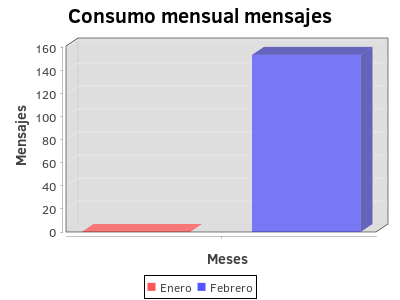
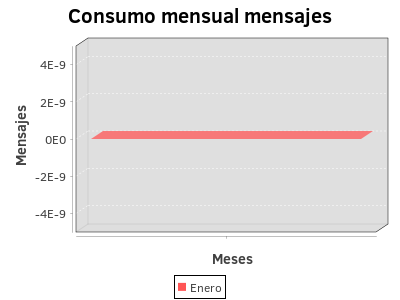
Coreccion interfaz cliente

Changed region(s): [[0.24, 0.15, 0.93, 0.78], [0.09, 0.12, 0.51, 0.81], [0.36, 0.84, 0.66, 1.0]]

diff --git a/vistas/cliente/Cliente/src/functionalities/CreateGraphic.java b/vistas/cliente/Cliente/src/functionalities/CreateGraphic.java
@@ -8,70 +8,31 @@ import org.jfree.chart.axis.CategoryAxis;
 import org.jfree.chart.axis.CategoryLabelPositions;
 import org.jfree.chart.plot.CategoryPlot;
 import org.jfree.chart.plot.PlotOrientation;
+import org.jfree.data.*;
+import org.jfree.chart.*;
 import org.jfree.data.category.DefaultCategoryDataset;
 
 import java.io.File;
 import java.io.IOException;
 
 public class CreateGraphic {
-    private boolean ready = false;
-    public CreateGraphic(String chartTitle, int IdTipo, int cantMeses) {
 
-        // Creamos el conjunto de datos con las votaciones
-        DefaultCategoryDataset dataset = createDataset(cantMeses);
-
-        JFreeChart chart = createChart(dataset, chartTitle, IdTipo);
-        // Ponemos el gráfico en un panel
-        ChartPanel chartPanel = new ChartPanel(chart);
-        // Dejamos el tamaño por defecto
-        chartPanel.setPreferredSize(new java.awt.Dimension(500, 270));
-        ready=true;
-    }
-
-    public boolean getReady(){
-        return ready;
-    }
-
-    private DefaultCategoryDataset createDataset(int cantMeses) {
+    public  ChartPanel Createchart(int month) {
         //ESTO DEBE OBTENER LOS DATOS DE LA BASE DE DATOS
-        DefaultCategoryDataset result = new DefaultCategoryDataset();
+        DefaultCategoryDataset Datos = new DefaultCategoryDataset();
         String months[]={"Enero","Febrero","Marzo","Abril","Mayo","Junio","Julio",
                 "Agosto","Septiembre","Octubre","Noviembre","Diciembre"};
-        for(int i = 0; i<cantMeses; i++){
-            result.setValue(154*i, months[i], "");
+        String tipo[]={"Minutos","Internet", "Mensajes"};
+        for(int i=0; i<=2; i++){
+            for(int j=0; j<month; j++){
+                Datos.setValue(154*(i+1),tipo[i],months[j]);
+            }
         }
-        return result;
-
-    }
-
-    private JFreeChart createChart(DefaultCategoryDataset dataset, String title, int IdTipo) {
-        String tipo;
-        switch (IdTipo) {
-            case 1:
-                tipo = "Minutos";
-                break;
-            case 2:
-                tipo = "Internet";
-                break;
-            default:
-                tipo = "Mensajes";
-                break;
-        }
-        JFreeChart chart = ChartFactory.createBarChart3D(title, "Meses",
-                tipo, dataset, // data
-                PlotOrientation.VERTICAL, true, // include legend
-                true, false);
-        CategoryPlot plot = (CategoryPlot) chart.getPlot();
-        CategoryAxis xAxis = (CategoryAxis) plot.getDomainAxis();
-        xAxis.setCategoryLabelPositions(CategoryLabelPositions.UP_45); // Inclinamos 45 grados las etiquetas del eje X
-        plot.setBackgroundAlpha(0.5f);
-        try {
-            ChartUtilities.saveChartAsPNG(new File("vistas/cliente/Cliente/src/assets/images/consumo" + tipo + ".png"), chart, 400, 300);
-        } catch (IOException e) {
-            System.out.println("Can't generate bill");
-        }
-        return chart;
-
+        JFreeChart Grafica = ChartFactory.createBarChart("Consumo mensual",
+                "Tipo consumo", "Consumo", Datos,
+                PlotOrientation.HORIZONTAL, true, true, false);
+        ChartPanel Panel = new ChartPanel(Grafica);
+        return Panel;
     }
 }
 

diff --git a/vistas/cliente/Cliente/src/cliente/ControllerClientView.java b/vistas/cliente/Cliente/src/cliente/ControllerClientView.java
@@ -15,6 +15,9 @@ import java.net.URL;
 import java.util.Calendar;
 import java.util.ResourceBundle;
 import functionalities.CreateGraphic;
+import org.jfree.chart.ChartPanel;
+
+import javax.swing.JFrame;
 
 public class ControllerClientView implements Initializable {
 
@@ -89,17 +92,14 @@ public class ControllerClientView implements Initializable {
             if(selectedMonthNumber>cal.get(Calendar.MONTH)){
                 throw new InvalidMonth();
             }
-            CreateGraphic chart = new CreateGraphic("Consumo mensual minutos", 1, selectedMonthNumber+1);
-            chart = new CreateGraphic("Consumo mensual internet", 2, selectedMonthNumber+1);
-            chart = new CreateGraphic("Consumo mensual mensajes", 3, selectedMonthNumber+1);
-            System.out.println("Consultando por gráfico");
-                Parent queryView = FXMLLoader.load(getClass().getResource("clientViewGraphicQuery.fxml"));
 
-                Scene queryScene = new Scene(queryView);
-                Stage window = (Stage) ((Node) actionEvent.getSource()).getScene().getWindow();
-                window.setTitle("Consulta consumo por gráfico");
-                window.setScene(queryScene);
-                window.show();
+            CreateGraphic chart = new CreateGraphic();
+            ChartPanel panel = chart.Createchart(selectedMonthNumber+1);
+            JFrame Ventana = new JFrame("JFreeChart");
+            Ventana.getContentPane().add(panel);
+            Ventana.pack();
+            Ventana.setVisible(true);
+            Ventana.setDefaultCloseOperation(JFrame.DISPOSE_ON_CLOSE);
 
         } catch(EmptyFields e){
             labelError.setText("El campo número de celular no debe quedar vacío");
@@ -109,8 +109,6 @@ public class ControllerClientView implements Initializable {
             labelError.setText("No hay registros del mes que escogió \nPor favor intente con un mes anterior");
         } catch(InvalidNumber e){
             labelError.setText("El número no es válido");
-        } catch (IOException e) {
-            labelError.setText("No se puede acceder a la consulta");
         }
     }
 
